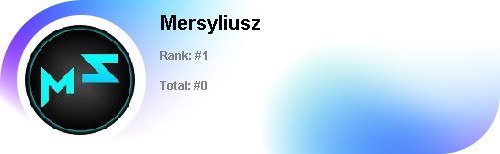
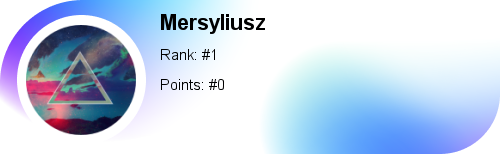
Add aliasing to text and image.
Avatar is now central, better fonts

diff --git a/src/main/java/com/adamlewandowski/Discord_Bot/service/RankPngGenerator.java b/src/main/java/com/adamlewandowski/Discord_Bot/service/RankPngGenerator.java
@@ -19,25 +19,26 @@ public class RankPngGenerator {
     private String absolutePath = f.getAbsolutePath();
     private File file = new File(absolutePath + defaultFile);
     private File fileEdited = new File(absolutePath + editedFile);
-    private Font fontDetail = new Font("Arial", Font.CENTER_BASELINE, 12);
-    private Font fontHead = new Font("Arial", Font.CENTER_BASELINE, 20);
+    private Font fontDetail = new Font("Arial", Font.PLAIN, 15);
+    private Font fontHead = new Font("Arial", Font.BOLD, 22);
 
     public File loadImageAndAddText(String name, String avatarUrl, Long rank, Integer points) throws IOException {
         BufferedImage avatarBufferedImage = ImageIO.read(new URL(avatarUrl));
         BufferedImage avatarRounded = makeRoundedAvatar(avatarBufferedImage);
-        Image avatar = avatarRounded.getScaledInstance(110, 110, 0);
+        Image avatar = avatarRounded.getScaledInstance(110, 110, 50);
 
         BufferedImage bufferedImage = ImageIO.read(file);
-        Graphics g = bufferedImage.getGraphics();
+        Graphics2D g = bufferedImage.createGraphics();
         g.setFont(fontHead);
         g.setColor(Color.BLACK);
+        g.setRenderingHint(RenderingHints.KEY_TEXT_ANTIALIASING, RenderingHints.VALUE_TEXT_ANTIALIAS_ON);
         g.drawString(String.format("%s", name), 160, 30);
-        g.drawImage(avatar, 25, 25, null);
+        g.drawImage(avatar, 26, 25, null);
 
         g.setFont(fontDetail);
-        g.setColor(Color.GRAY);
+        g.setColor(Color.BLACK);
         g.drawString(String.format("Rank: #%s", rank), 160, 60);
-        g.drawString(String.format("Total: #%s", points), 160, 90);
+        g.drawString(String.format("Points: #%s", points), 160, 90);
         g.dispose();
         ImageIO.write(bufferedImage, "png", fileEdited);
         return fileEdited;
@@ -46,7 +47,7 @@ public class RankPngGenerator {
     public static BufferedImage makeRoundedAvatar(BufferedImage image) {
         int w = image.getWidth();
         int h = image.getHeight();
-        int cornerRadius = 500;
+        int cornerRadius = 300;
         BufferedImage output = new BufferedImage(w, h, BufferedImage.TYPE_INT_ARGB);
 
         Graphics2D g2 = output.createGraphics();
